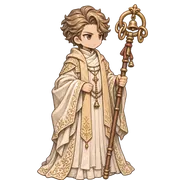
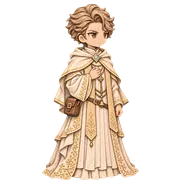
絵: 駒16枚を「旅の姿」に入れかえる（武器を持たない・おそろいのマントと水晶のブローチと腰のかばん）
- オーナーが案B で16枚作った。転職しても違和感のない駒にするため
- 背景の消し方を scripts/art/precut_pieces.py にまとめた（透明・真っ黒・市松模様の絵の3通り。ほかは rembg）

diff --git a/scripts/art/precut_pieces.py b/scripts/art/precut_pieces.py
@@ -1,0 +1,64 @@
+# 駒の元の絵の背景を消して、build_art.py の切り抜きの置き場（<SRC>/.cut/piece/<名前>.png）に置く。
+# ChatGPT の駒の絵は、背景が3通りで届く: 透明・真っ黒・「市松模様の絵」（透明に見える模様を描きこんだ物）。
+# どれでもない物（背景にもやが混じった物など）は、ここでは置かず、build_art.py の rembg に任せる。
+# 使い方: py scripts/art/precut_pieces.py <SRC>   （<SRC>/piece/*.png を全部見る）
+import sys, os, glob
+import numpy as np
+import cv2
+from PIL import Image
+
+SRC = sys.argv[1]
+OUT = os.path.join(SRC, '.cut', 'piece')
+os.makedirs(OUT, exist_ok=True)
+
+
+def edge_mask(bg: np.ndarray) -> np.ndarray:
+    """bg（背景らしい所の印）のうち、絵のふちにつながった所だけ"""
+    n, lab, st, _ = cv2.connectedComponentsWithStats(bg.astype(np.uint8), connectivity=4)
+    edge = set(np.unique(np.concatenate([lab[0], lab[-1], lab[:, 0], lab[:, -1]]))) - {0}
+    return np.isin(lab, list(edge)), lab, st, edge
+
+
+def soften(alpha: np.ndarray, k: int = 3) -> np.ndarray:
+    alpha = cv2.erode(alpha, np.ones((k, k), np.uint8))
+    return cv2.GaussianBlur(alpha, (3, 3), 0)
+
+
+for f in sorted(glob.glob(os.path.join(SRC, 'piece', '*.png'))):
+    name = os.path.splitext(os.path.basename(f))[0]
+    im = Image.open(f)
+    rgba = np.array(im.convert('RGBA'))
+    rgb = rgba[..., :3].astype(int)
+    a = rgba[..., 3]
+    mn, mx = rgb.min(2), rgb.max(2)
+    kind = None
+    if im.mode == 'RGBA' and (a == 0).mean() > 0.3:
+        # 透明の背景: 透明をそのまま使う（ふちのにじみを少し削る）
+        kind = 'transparent'
+        alpha = soften(np.where(a > 200, 255, 0).astype(np.uint8), 5)
+    elif im.mode == 'RGB' and (mx[:8, :8] < 12).all():
+        # 真っ黒の背景: ふちにつながった真っ黒だけ
+        kind = 'black'
+        out, *_ = edge_mask(mx < 28)
+        alpha = soften(np.where(out, 0, 255).astype(np.uint8))
+    elif im.mode == 'RGB' and (mn[:8, :8] > 240).all():
+        # 市松模様の絵: ふちにつながった白と薄い灰色。囲まれた所でも、白と灰色が混じる所は背景
+        kind = 'checker'
+        bg = (mx - mn < 10) & (mn > 190)
+        out, lab, st, edge = edge_mask(bg)
+        gray = bg & (mx < 225)
+        for i in range(1, st.shape[0]):
+            if i in edge or st[i, 4] < 150:
+                continue
+            m = lab == i
+            if gray[m].mean() > 0.15:
+                out |= m
+        alpha = soften(np.where(out, 0, 255).astype(np.uint8))
+    if kind is None:
+        print(f'{name:18s} 背景が分からない → rembg に任せる')
+        p = os.path.join(OUT, f'{name}.png')
+        if os.path.exists(p):
+            os.remove(p)
+        continue
+    Image.fromarray(np.dstack([rgba[..., :3], alpha]), 'RGBA').save(os.path.join(OUT, f'{name}.png'))
+    print(f'{name:18s} {kind:12s} 残した割合 {(alpha > 128).mean():.3f}')

diff --git a/docs/art/prompts-chatgpt-pieces-travel.md b/docs/art/prompts-chatgpt-pieces-travel.md
@@ -298,3 +298,9 @@
 ポーズ: 両手をそでの中に入れて、体の前で重ねる
 おそろいのマントの色: くすんだ紫
 ```
+
+## 結果（2026-11-15）
+- オーナーが試しの後、**案B で16枚すべて**作った。駒の絵（`src/assets/art/piece/*.webp`）を全部入れかえた。
+- 元の絵: `C:/dev/card-rpg-assets/chatgpt-pieces-travel/piece/`（前の武器を持った駒の元の絵は `C:/dev/card-rpg-assets/chatgpt-pieces/piece-weapon/` に残した）。
+- 背景は3通りで届いた（透明・真っ黒・市松模様の絵）。`scripts/art/precut_pieces.py` で消してから `SRC=C:/dev/card-rpg-assets/chatgpt-pieces-travel py scripts/art/build_art.py piece/`。狩人・男だけは、背景にもやが混じっていたので rembg で切り抜いた。
+- 案C（台座に今のジョブの札）は、まだ作っていない。
